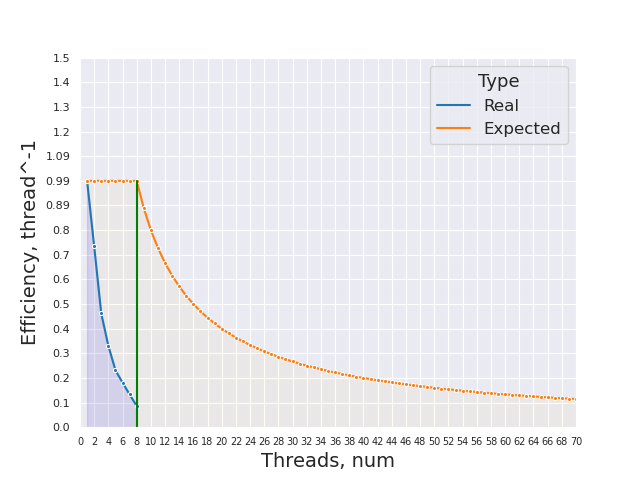
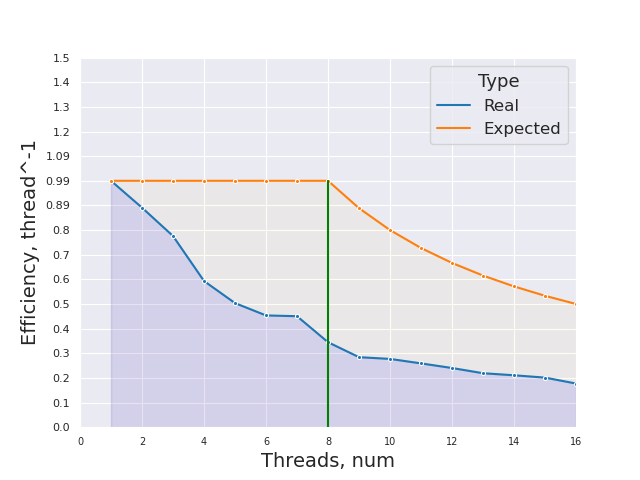
lab3 graphs

diff --git a/lab3/graphs/timing.py b/lab3/graphs/timing.py
@@ -1,2 +1,2 @@
-t_succ = 0.773194
-ts = [(1, 2.16627), (2, 1.47622), (3, 1.56447), (4, 1.64001), (5, 1.87239), (6, 1.99385), (7, 2.32842), (8, 3.14752), ]
+t_succ = 0.0485337
+ts = [(1, 0.745805), (2, 0.419264), (3, 0.307266), (4, 0.273471), (5, 0.291379), (6, 0.258122), (7, 0.226362), (8, 0.258446), (9, 0.267521), (10, 0.262087), (11, 0.26095), (12, 0.244042), (13, 0.240788), (14, 0.236877), (15, 0.229612), (16, 0.243094), ]

diff --git a/lab3/graphs/graph.py b/lab3/graphs/graph.py
@@ -55,7 +55,7 @@ def get_plot(ylabel, unit, unitbound, threadbound, filename, all_ts, ymax, cores
     p.figure.savefig(filename)
 
 
-threadbound = 70
+threadbound = 16
 cores = 8
 ts = ts[:threadbound]
 t_succ = ts[0][1]
